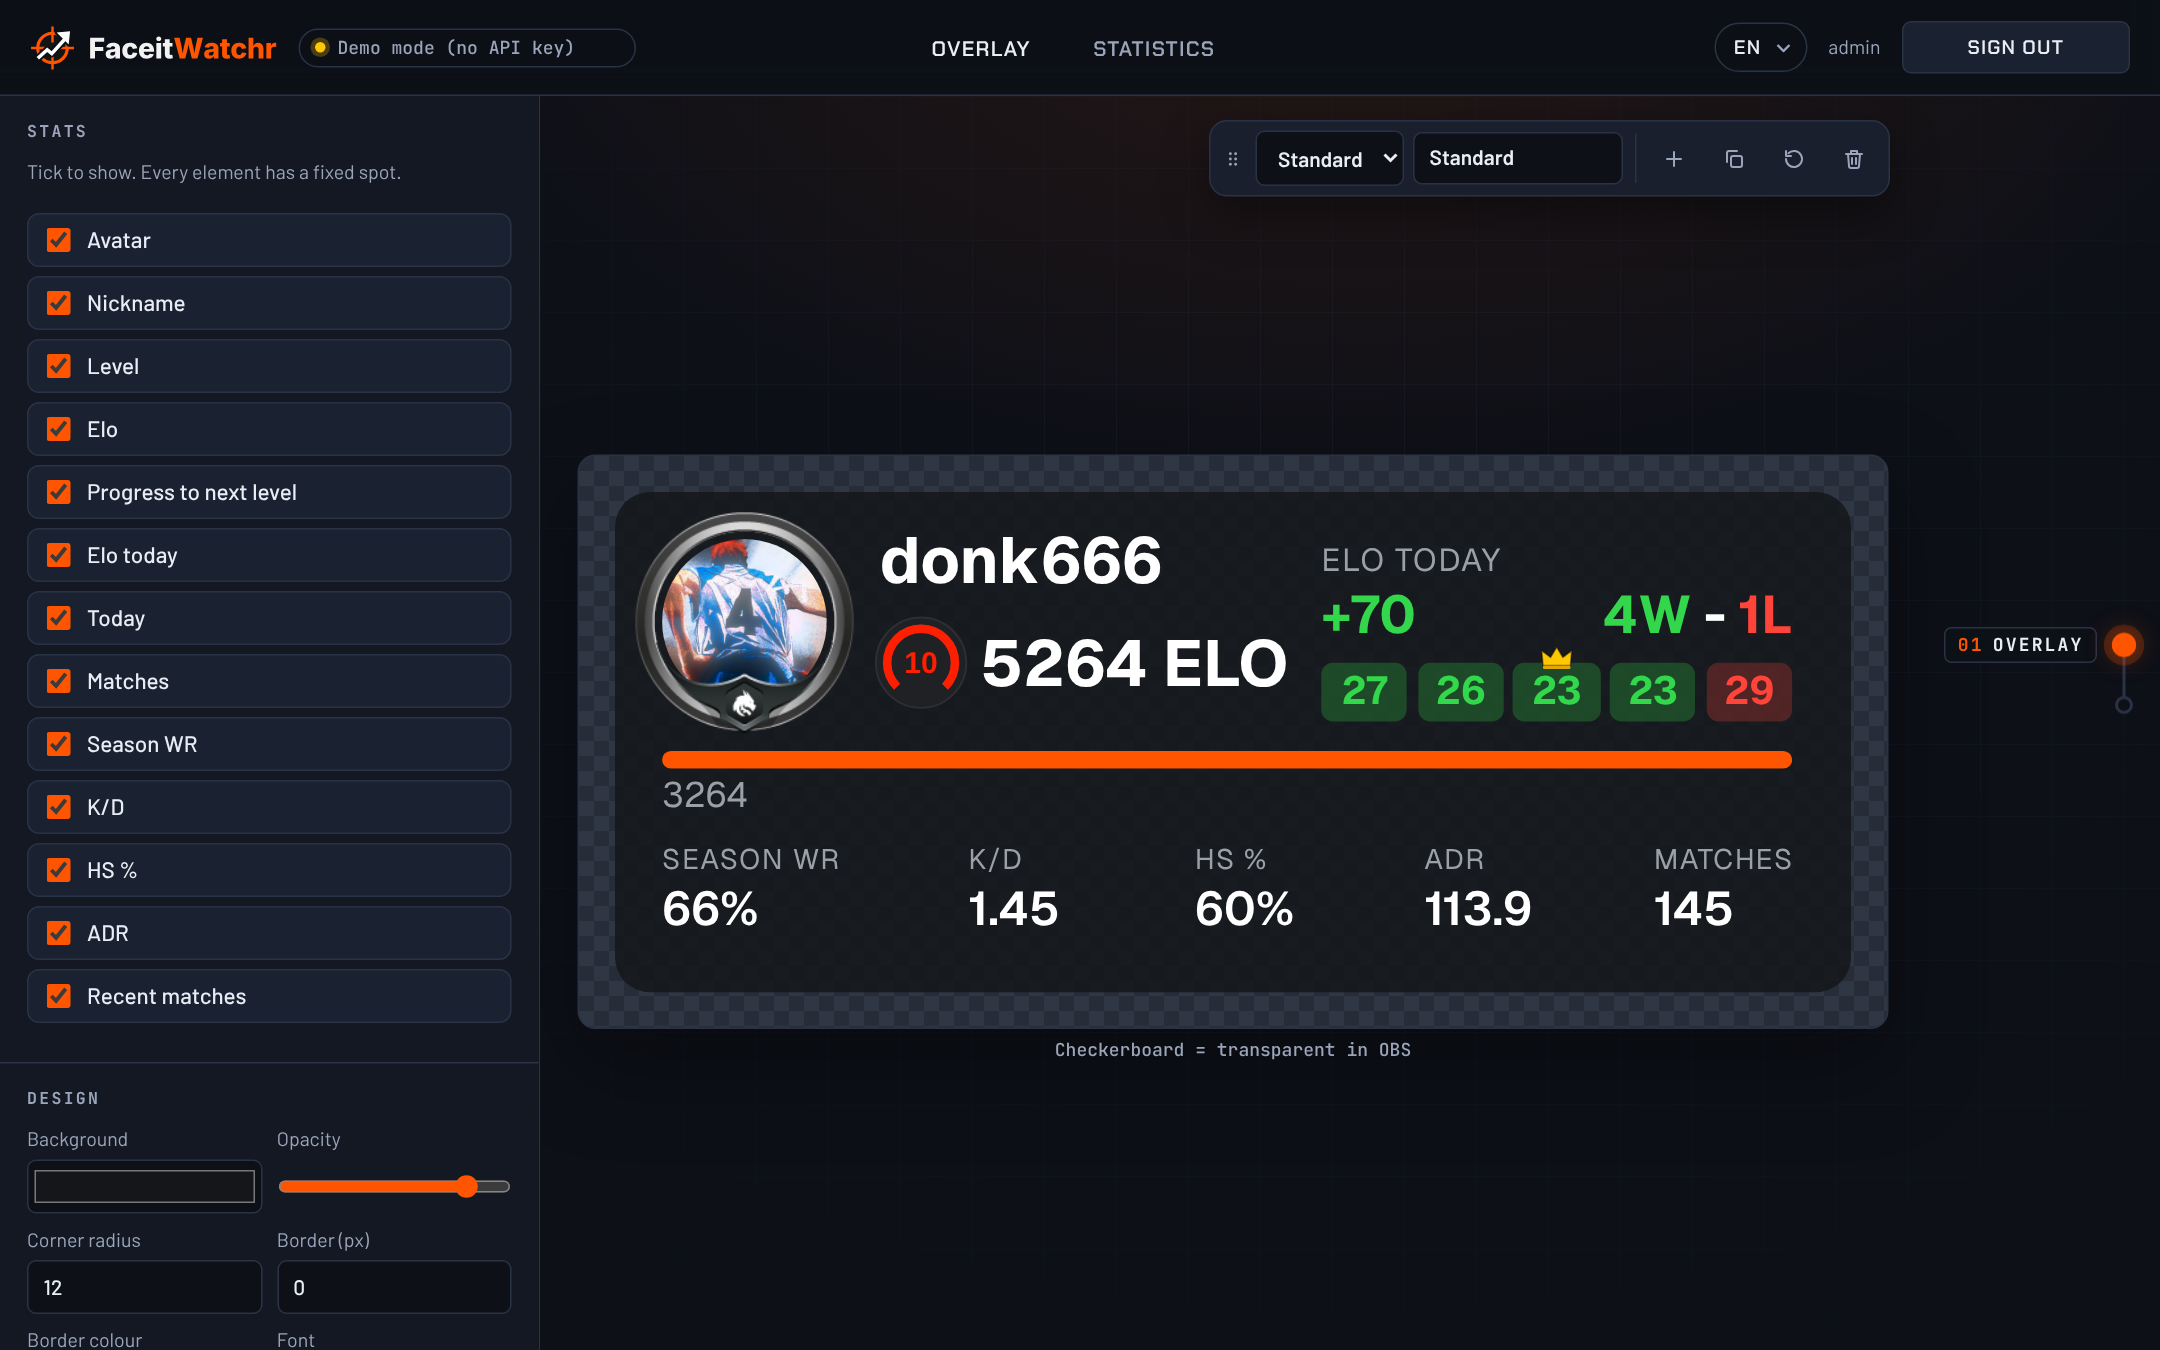
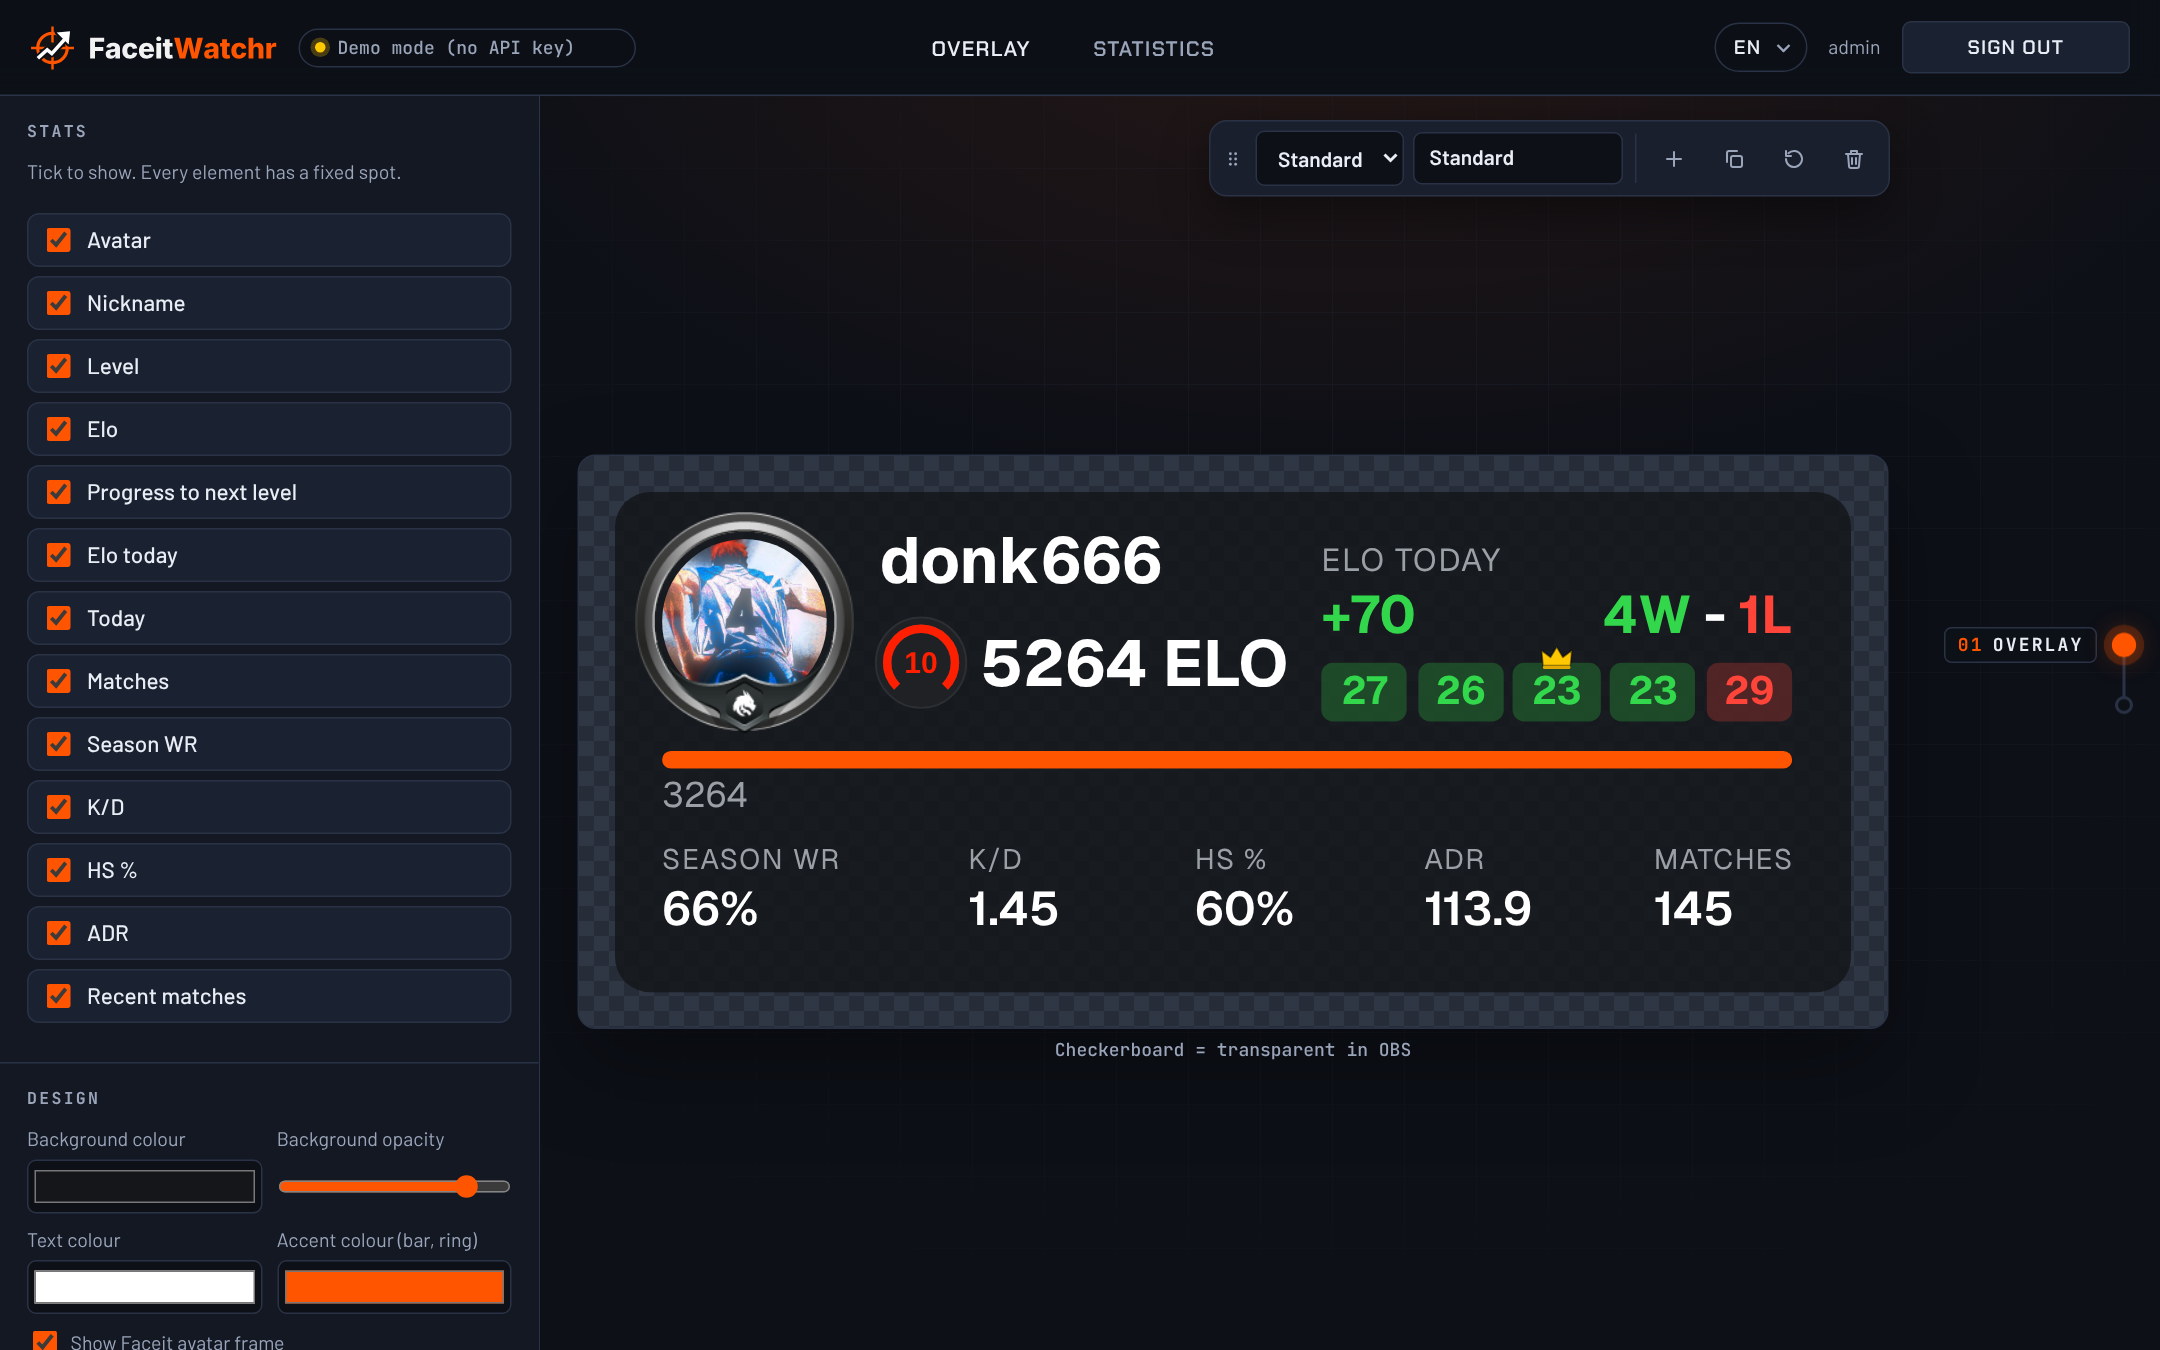
Editor: Design-Bereich auf das Nötigste reduziert
Schrift, Level-Symbol, Ecken, Rahmen, Beschriftungsfarbe und Sieg/Niederlage-
Farben entfallen und stehen fest auf Standard. Übrig: Hintergrundfarbe,
Deckkraft, Textfarbe, Akzentfarbe, Avatar-Rahmen, Season/All-Time. Die
Sekunden erscheinen nur beim Wechseln, Beschriftungen sind verständlicher.

Changed region(s): [[0.0, 0.9022, 0.2481, 1.0], [0.1241, 0.84, 0.1861, 0.8711]]

diff --git a/public/js/i18n.js b/public/js/i18n.js
@@ -34,22 +34,12 @@ const T = {
     design: 'Design',
     checker: 'Karomuster = transparent in OBS',
     show: '{n} anzeigen',
-    background: 'Hintergrund',
-    opacity: 'Deckkraft',
-    radius: 'Ecken rund',
-    border: 'Rahmen (px)',
-    borderColor: 'Rahmenfarbe',
-    font: 'Schrift',
+    background: 'Hintergrundfarbe',
+    opacity: 'Deckkraft Hintergrund',
     textColor: 'Textfarbe',
-    labelColor: 'Beschriftungsfarbe',
-    accentColor: 'Akzentfarbe',
-    positiveColor: 'Farbe Sieg / Plus',
-    negativeColor: 'Farbe Niederlage / Minus',
-    levelIcon: 'Level-Symbol',
-    levelBadge: 'Faceit-Stil (eingebaut)',
-    levelOfficial: 'Original-Datei von Faceit laden',
-    showFrame: 'Faceit-Avatar-Rahmen',
-    statsPeriod: 'Stats: Season / All-Time',
+    accentColor: 'Akzentfarbe (Balken, Ring)',
+    showFrame: 'Faceit-Avatar-Rahmen zeigen',
+    statsPeriod: 'Werte unten: Season oder All-Time',
     statsCycle: 'Abwechselnd',
     statsSeason: 'Nur Season',
     statsAllTime: 'Nur All-Time',
@@ -141,22 +131,12 @@ const T = {
     design: 'Design',
     checker: 'Checkerboard = transparent in OBS',
     show: 'Show {n}',
-    background: 'Background',
-    opacity: 'Opacity',
-    radius: 'Corner radius',
-    border: 'Border (px)',
-    borderColor: 'Border colour',
-    font: 'Font',
+    background: 'Background colour',
+    opacity: 'Background opacity',
     textColor: 'Text colour',
-    labelColor: 'Label colour',
-    accentColor: 'Accent colour',
-    positiveColor: 'Colour win / plus',
-    negativeColor: 'Colour loss / minus',
-    levelIcon: 'Level icon',
-    levelBadge: 'Faceit style (built in)',
-    levelOfficial: 'Load original file from Faceit',
-    showFrame: 'Faceit avatar frame',
-    statsPeriod: 'Stats: season / all-time',
+    accentColor: 'Accent colour (bar, ring)',
+    showFrame: 'Show Faceit avatar frame',
+    statsPeriod: 'Stats at the bottom: season or all-time',
     statsCycle: 'Alternating',
     statsSeason: 'Season only',
     statsAllTime: 'All-time only',
@@ -248,22 +228,12 @@ const T = {
     design: 'Дизайн',
     checker: 'Шахматка = прозрачно в OBS',
     show: 'Показать {n}',
-    background: 'Фон',
-    opacity: 'Прозрачность',
-    radius: 'Скругление углов',
-    border: 'Рамка (px)',
-    borderColor: 'Цвет рамки',
-    font: 'Шрифт',
+    background: 'Цвет фона',
+    opacity: 'Непрозрачность фона',
     textColor: 'Цвет текста',
-    labelColor: 'Цвет подписей',
-    accentColor: 'Акцентный цвет',
-    positiveColor: 'Цвет победы / плюса',
-    negativeColor: 'Цвет поражения / минуса',
-    levelIcon: 'Значок уровня',
-    levelBadge: 'Стиль Faceit (встроенный)',
-    levelOfficial: 'Загрузить оригинал с Faceit',
-    showFrame: 'Рамка аватара Faceit',
-    statsPeriod: 'Статистика: сезон / всё время',
+    accentColor: 'Акцент (полоса, кольцо)',
+    showFrame: 'Показывать рамку аватара Faceit',
+    statsPeriod: 'Показатели внизу: сезон или всё время',
     statsCycle: 'По очереди',
     statsSeason: 'Только сезон',
     statsAllTime: 'Только всё время',
@@ -355,22 +325,12 @@ const T = {
     design: 'Design',
     checker: 'Damier = transparent dans OBS',
     show: 'Afficher {n}',
-    background: 'Fond',
-    opacity: 'Opacité',
-    radius: 'Coins arrondis',
-    border: 'Bordure (px)',
-    borderColor: 'Couleur de bordure',
-    font: 'Police',
+    background: 'Couleur du fond',
+    opacity: 'Opacité du fond',
     textColor: 'Couleur du texte',
-    labelColor: 'Couleur des libellés',
-    accentColor: 'Couleur d’accent',
-    positiveColor: 'Couleur victoire / plus',
-    negativeColor: 'Couleur défaite / moins',
-    levelIcon: 'Icône de niveau',
-    levelBadge: 'Style Faceit (intégré)',
-    levelOfficial: 'Charger le fichier original de Faceit',
-    showFrame: 'Cadre d’avatar Faceit',
-    statsPeriod: 'Stats : saison / global',
+    accentColor: 'Accent (barre, anneau)',
+    showFrame: 'Afficher le cadre d’avatar Faceit',
+    statsPeriod: 'Stats du bas : saison ou global',
     statsCycle: 'En alternance',
     statsSeason: 'Saison uniquement',
     statsAllTime: 'Global uniquement',

diff --git a/public/js/editor.js b/public/js/editor.js
@@ -1,4 +1,4 @@
-import { FONTS, renderOverlay } from './render.js';
+import { renderOverlay } from './render.js';
 import { createIntro, createLoader } from './loader.js';
 import { initLangSelect, locale, setText, showText, t, tx, widgetName, wx } from './i18n.js';
 import { loadStats, renderStats } from './stats.js';
@@ -152,16 +152,8 @@ function renderWidgetList() {
 const STYLE_FIELDS = [
   ['background', 'background', 'color'],
   ['backgroundOpacity', 'opacity', 'range', { min: 0, max: 1, step: 0.05 }],
-  ['borderRadius', 'radius', 'number'],
-  ['borderWidth', 'border', 'number'],
-  ['borderColor', 'borderColor', 'color'],
-  ['fontFamily', 'font', 'font'],
   ['textColor', 'textColor', 'color'],
-  ['labelColor', 'labelColor', 'color'],
   ['accentColor', 'accentColor', 'color'],
-  ['positiveColor', 'positiveColor', 'color'],
-  ['negativeColor', 'negativeColor', 'color'],
-  ['levelIcon', 'levelIcon', 'select', { options: [['badge', 'levelBadge'], ['official', 'levelOfficial']] }],
   ['showAvatarFrame', 'showFrame', 'checkbox'],
   ['statsPeriod', 'statsPeriod', 'select', { options: [['cycle', 'statsCycle'], ['season', 'statsSeason'], ['alltime', 'statsAllTime']] }],
   ['statsCycleSeconds', 'statsCycleSeconds', 'number', { min: 3, max: 600 }],
@@ -171,25 +163,24 @@ function renderStyleForm() {
   const form = $('styleForm');
   form.replaceChildren();
   for (const [key, labelKey, type, attrs] of STYLE_FIELDS) {
+    // Die Sekunden gelten nur beim Wechseln
+    if (key === 'statsCycleSeconds' && (overlay.style.statsPeriod ?? 'cycle') !== 'cycle') continue;
     const label = tx(labelKey);
     const set = (v) => {
       overlay.style[key] = key === 'statsCycleSeconds' ? Math.max(3, v || 10) : v;
       changed();
-      // Die Sekunden gelten nur beim Wechseln
       if (key === 'statsPeriod') renderStyleForm();
     };
-    if (type === 'font' || type === 'select') {
-      const options = type === 'font' ? FONTS.map((f) => [f, f]) : attrs.options.map(([value, key]) => [value, t(key)]);
+    if (type === 'select') {
+      const options = attrs.options.map(([value, key]) => [value, t(key)]);
       const select = document.createElement('select');
       for (const [value, text] of options) select.add(new Option(text, value, false, value === overlay.style[key]));
       select.addEventListener('change', () => set(select.value));
-      form.appendChild(field(label, select));
+      form.appendChild(field(label, select, 'full'));
     } else if (type === 'checkbox') {
       form.appendChild(field(label, input('checkbox', !!overlay.style[key], set), 'full'));
     } else {
-      const node = input(type, overlay.style[key], set, attrs);
-      if (key === 'statsCycleSeconds') node.disabled = (overlay.style.statsPeriod ?? 'cycle') !== 'cycle';
-      form.appendChild(field(label, node));
+      form.appendChild(field(label, input(type, overlay.style[key], set, attrs)));
     }
   }
 }

diff --git a/src/overlays/defaults.ts b/src/overlays/defaults.ts
@@ -90,12 +90,14 @@ export function createDefaultOverlay(name = 'Standard'): Overlay {
 }
 
 /**
- * Bringt gespeicherte Overlays auf den Stand neuer Versionen. Positionen und Größen sind fest,
+ * Bringt gespeicherte Overlays auf den Stand neuer Versionen. Positionen, Größen und das Design außerhalb des Editors sind fest,
  * eigene Beschriftungen und Farben sowie ein-/ausgeblendete Stats bleiben erhalten.
  */
 export function upgradeOverlay(overlay: Overlay): Overlay {
-  const { width, height } = defaultStyle();
-  overlay.style = { ...defaultStyle(), ...overlay.style, width, height };
+  // Nur diese Design-Werte lassen sich im Editor einstellen, alle anderen stehen fest auf dem Standard
+  const editable = ['background', 'backgroundOpacity', 'textColor', 'accentColor', 'showAvatarFrame', 'statsPeriod', 'statsCycleSeconds'] as const;
+  const style: Partial<OverlayStyle> = overlay.style ?? {};
+  overlay.style = { ...defaultStyle(), ...Object.fromEntries(editable.filter((k) => style[k] !== undefined).map((k) => [k, style[k]])) };
   const saved = new Map<string, Widget>(overlay.widgets.map((w) => [w.type, w]));
   const enabled = new Map<string, boolean>(overlay.widgets.map((w) => [w.type, w.enabled]));
   // Die Gesamt-Winrate gibt es nicht mehr, an ihrer Stelle steht die Season WR (wechselt mit All-Time)

diff --git a/public/js/render.js b/public/js/render.js
@@ -2,7 +2,6 @@
 
 const LEVEL_THRESHOLDS = [0, 501, 751, 901, 1051, 1201, 1351, 1531, 1751, 2001];
 const SYSTEM_FONTS = ['Arial', 'Verdana', 'Tahoma', 'Segoe UI', 'Impact'];
-export const FONTS = ['Geist', 'Play', 'Rajdhani', 'Inter', 'Roboto', 'Montserrat', 'Oswald', 'Bebas Neue', 'Teko', 'Exo 2', ...SYSTEM_FONTS];
 
 function levelColor(level) {
   if (level >= 10) return '#fe1f00';

diff --git a/README.md b/README.md
@@ -13,11 +13,11 @@ Build your own Faceit overlays (Elo, level, K/D, session stats, …) for OBS and
 
 ## What it looks like
 
-**Editor:** switch stats on or off, pick colours and font, copy the OBS link.
+**Editor:** switch stats on or off, pick colours, copy the OBS link.
 
 ![Editor with overlay preview](docs/screenshots/editor.png)
 
-**Pick your stats:** every stat can be shown or hidden on its own, each one has a fixed spot. Fonts and colours are set under **Design**.
+**Pick your stats:** every stat can be shown or hidden on its own, each one has a fixed spot. Colours are set under **Design**.
 
 ![Editor with the stats list](docs/screenshots/editor-widgets.png)
 
